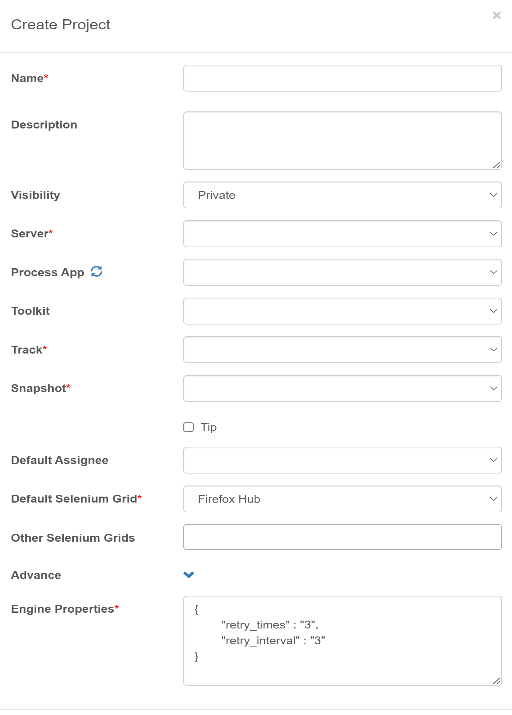
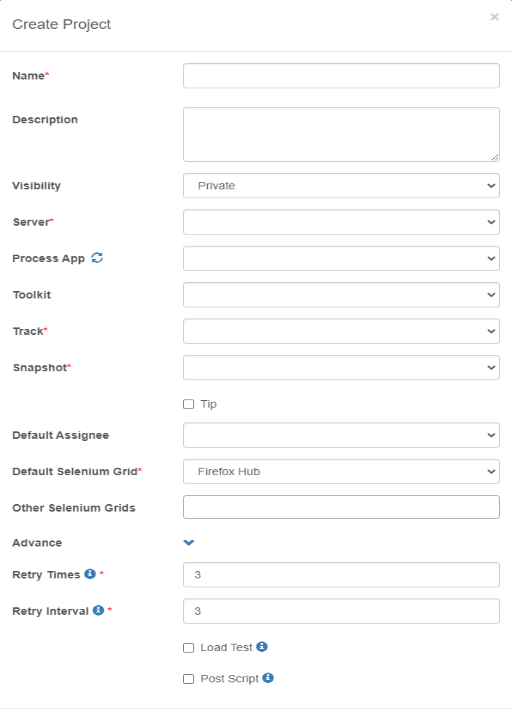
updated doc for project management

diff --git a/_posts/2018-03-01-test-project-management.md b/_posts/2018-03-01-test-project-management.md
@@ -37,7 +37,10 @@ order: 10
      [Other Selenium Grids][2]    |Support chrome, firefox selenium node 
      Tip                   |Use the latest snapshot 
      Advance               |Show the engine configuration
-     Engine Properties     |Support the engine configuration only for json format. Retry times: the retry times of the failed command. Retry interval: the interval time between the retry. if not be set, then they will be the engineConfig.defaultRetryTimes and engineConfig.defaultRetryInterval in application configuration.
+     Retry Times           |The retry times of the failed command
+     Retry Interval        |The interval time between the retries(seconds) 
+	 Load Test             |Enable load test
+	 Post Script           |Enable post script for each test step	 
      Migrate an old project|Support test case project migration from eclipse version
      
      **Notes:**     
